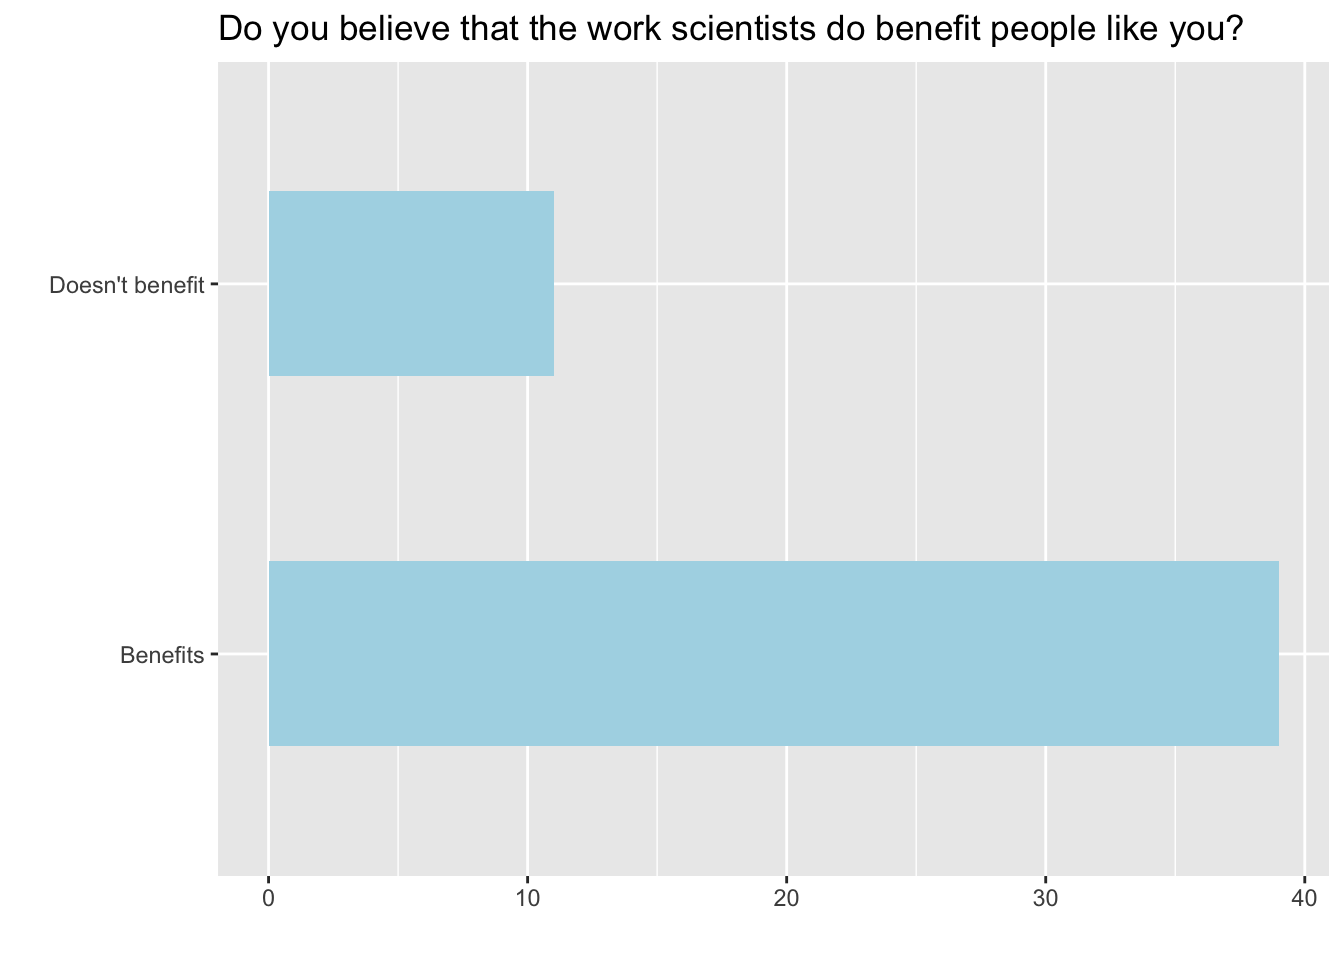
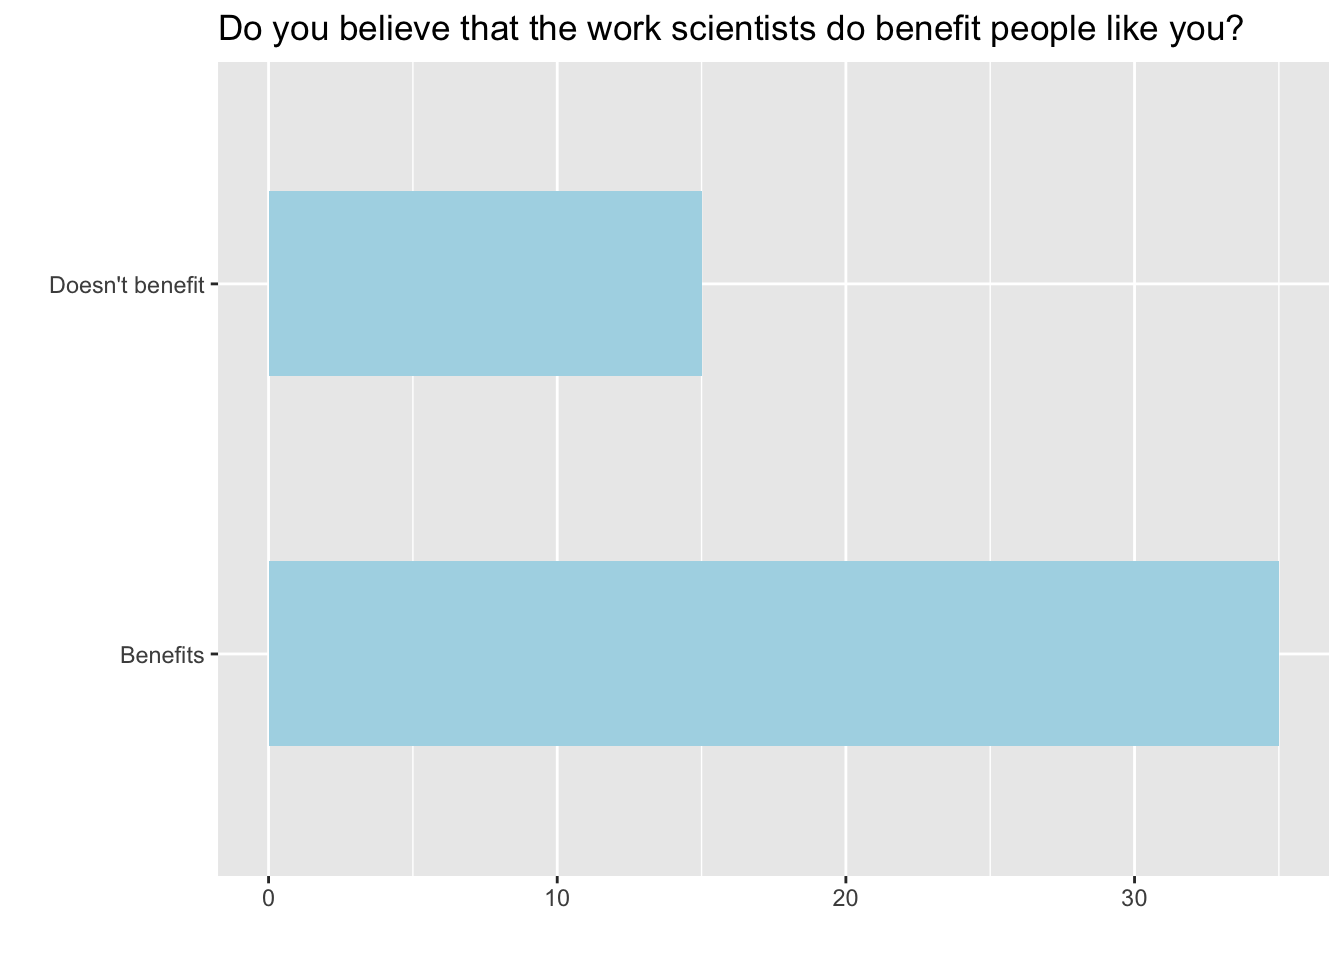
Typo update for Lab 4

diff --git a/docs/S1YLab4/part-1---sampling-distributions.html b/docs/S1YLab4/part-1---sampling-distributions.html
@@ -220,8 +220,8 @@ We will first create our population assuming a population size of 100,000 (which
 <p>The name of the data frame is <code>global_monitor</code> and the name of the variable that contains responses to the question <em>"Do you believe that the work scientists do benefit people like you?"</em> is <code>scientist_work</code>.</p>
 <p><br></p>
 <p><strong>What would this line of code return? <code>c(rep(x, 1000), rep(y, 500))</code></strong></p>
-<div id="radio_QDGKFCEMBM" class="webex-radiogroup">
-<label><input type="radio" autocomplete="off" name="radio_QDGKFCEMBM" value=""></input> <span>vector of length 500 all y</span></label><label><input type="radio" autocomplete="off" name="radio_QDGKFCEMBM" value="answer"></input> <span>vector of length 1500 with 1000 values of x and 500 values of y</span></label><label><input type="radio" autocomplete="off" name="radio_QDGKFCEMBM" value=""></input> <span>matrix with 1000 rows of x and 500 columns of y</span></label><label><input type="radio" autocomplete="off" name="radio_QDGKFCEMBM" value=""></input> <span>vector of length 1000 all x</span></label>
+<div id="radio_IHATSPZPWJ" class="webex-radiogroup">
+<label><input type="radio" autocomplete="off" name="radio_IHATSPZPWJ" value=""></input> <span>matrix with 1000 rows of x and 500 columns of y</span></label><label><input type="radio" autocomplete="off" name="radio_IHATSPZPWJ" value="answer"></input> <span>vector of length 1500 with 1000 values of x and 500 values of y</span></label><label><input type="radio" autocomplete="off" name="radio_IHATSPZPWJ" value=""></input> <span>vector of length 500 all y</span></label><label><input type="radio" autocomplete="off" name="radio_IHATSPZPWJ" value=""></input> <span>vector of length 1000 all x</span></label>
 </div>
 <div class="webex-solution">
 <button>
@@ -272,8 +272,8 @@ Solution
 <pre><code>## # A tibble: 2 × 3
 ##   scientist_work      n p_hat
 ##   &lt;chr&gt;           &lt;int&gt; &lt;dbl&gt;
-## 1 Benefits           39  0.78
-## 2 Doesn&#39;t benefit    11  0.22</code></pre>
+## 1 Benefits           35   0.7
+## 2 Doesn&#39;t benefit    15   0.3</code></pre>
 <div class="sourceCode" id="cb7"><pre class="sourceCode r"><code class="sourceCode r"><span id="cb7-1"><a href="part-1---sampling-distributions.html#cb7-1" tabindex="-1"></a><span class="fu">ggplot</span>(sample1, <span class="fu">aes</span>(<span class="at">x =</span> scientist_work)) <span class="sc">+</span> </span>
 <span id="cb7-2"><a href="part-1---sampling-distributions.html#cb7-2" tabindex="-1"></a>  <span class="fu">geom_bar</span>(<span class="at">fill =</span> <span class="st">&quot;lightblue&quot;</span>, <span class="at">width =</span> <span class="fl">0.5</span>) <span class="sc">+</span> </span>
 <span id="cb7-3"><a href="part-1---sampling-distributions.html#cb7-3" tabindex="-1"></a>  <span class="fu">labs</span>(<span class="at">x =</span> <span class="st">&quot;&quot;</span>, <span class="at">y =</span> <span class="st">&quot;&quot;</span>, <span class="at">title =</span> <span class="st">&quot;Do you believe that the work scientists do benefit people like you?&quot;</span> ) <span class="sc">+</span></span>
@@ -282,8 +282,8 @@ Solution
 </div>
 <p><br></p>
 <p><strong>Think about how the proportions in your sample compare with the distribution of the population. Would you expect the sample distribution to be?</strong></p>
-<div id="radio_MVJAKRYVWT" class="webex-radiogroup">
-<label><input type="radio" autocomplete="off" name="radio_MVJAKRYVWT" value="answer"></input> <span>Similar to the population distribution</span></label><label><input type="radio" autocomplete="off" name="radio_MVJAKRYVWT" value=""></input> <span>Very different to the population distribution</span></label>
+<div id="radio_RILGXUOUHE" class="webex-radiogroup">
+<label><input type="radio" autocomplete="off" name="radio_RILGXUOUHE" value="answer"></input> <span>Similar to the population distribution</span></label><label><input type="radio" autocomplete="off" name="radio_RILGXUOUHE" value=""></input> <span>Very different to the population distribution</span></label>
 </div>
 <div class="webex-solution">
 <button>
@@ -299,13 +299,13 @@ Hint
 <pre><code>## # A tibble: 2 × 3
 ##   scientist_work      n p_hat
 ##   &lt;chr&gt;           &lt;int&gt; &lt;dbl&gt;
-## 1 Benefits           39  0.78
-## 2 Doesn&#39;t benefit    11  0.22</code></pre>
+## 1 Benefits           35   0.7
+## 2 Doesn&#39;t benefit    15   0.3</code></pre>
 <p>Depending on the 50 people selected, your estimate could be a bit above or a bit below the population proportion of 0.2. In general, though, the sample proportion turns out to be a pretty good estimate of the true population proportion, and you were able to get it by sampling less than 1% of the population, 50 out of 100000.</p>
 <p><br></p>
 <p><strong>Would you expect the sample proportion to match the sample proportion of another student's sample?</strong></p>
-<div id="radio_GDTYPPSPNT" class="webex-radiogroup">
-<label><input type="radio" autocomplete="off" name="radio_GDTYPPSPNT" value=""></input> <span>Exactly the same</span></label><label><input type="radio" autocomplete="off" name="radio_GDTYPPSPNT" value=""></input> <span>Completely different</span></label><label><input type="radio" autocomplete="off" name="radio_GDTYPPSPNT" value="answer"></input> <span>Similar but not necessarily the same</span></label>
+<div id="radio_HMUSFOIILN" class="webex-radiogroup">
+<label><input type="radio" autocomplete="off" name="radio_HMUSFOIILN" value=""></input> <span>Completely different</span></label><label><input type="radio" autocomplete="off" name="radio_HMUSFOIILN" value=""></input> <span>Exactly the same</span></label><label><input type="radio" autocomplete="off" name="radio_HMUSFOIILN" value="answer"></input> <span>Similar but not necessarily the same</span></label>
 </div>
 <div class="webex-solution">
 <button>
@@ -337,8 +337,8 @@ Solution
 <pre><code>## # A tibble: 2 × 3
 ##   scientist_work      n p_hat
 ##   &lt;chr&gt;           &lt;int&gt; &lt;dbl&gt;
-## 1 Benefits           41  0.82
-## 2 Doesn&#39;t benefit     9  0.18</code></pre>
+## 1 Benefits           38  0.76
+## 2 Doesn&#39;t benefit    12  0.24</code></pre>
 </div>
 <p><br></p>
 <p>Create 2 more samples, of size 100 and 1000 calling them <code>sample3</code> and <code>sample4</code>, and compare the proportion of people who do not believe that the work scientists do benefits them across all four samples.</p>
@@ -361,8 +361,8 @@ Solution
 <pre><code>## # A tibble: 2 × 3
 ##   scientist_work      n p_hat
 ##   &lt;chr&gt;           &lt;int&gt; &lt;dbl&gt;
-## 1 Benefits           81  0.81
-## 2 Doesn&#39;t benefit    19  0.19</code></pre>
+## 1 Benefits           74  0.74
+## 2 Doesn&#39;t benefit    26  0.26</code></pre>
 <div class="sourceCode" id="cb14"><pre class="sourceCode r"><code class="sourceCode r"><span id="cb14-1"><a href="part-1---sampling-distributions.html#cb14-1" tabindex="-1"></a>sample4 <span class="ot">&lt;-</span> global_monitor <span class="sc">%&gt;%</span> </span>
 <span id="cb14-2"><a href="part-1---sampling-distributions.html#cb14-2" tabindex="-1"></a>  <span class="fu">sample_n</span>(<span class="dv">1000</span>)</span>
 <span id="cb14-3"><a href="part-1---sampling-distributions.html#cb14-3" tabindex="-1"></a></span>
@@ -372,13 +372,13 @@ Solution
 <pre><code>## # A tibble: 2 × 3
 ##   scientist_work      n p_hat
 ##   &lt;chr&gt;           &lt;int&gt; &lt;dbl&gt;
-## 1 Benefits          789 0.789
-## 2 Doesn&#39;t benefit   211 0.211</code></pre>
+## 1 Benefits          783 0.783
+## 2 Doesn&#39;t benefit   217 0.217</code></pre>
 </div>
 <p><br></p>
 <p><strong>Looking at the new samples, of size 100 and 1000. Which would you think would provide a more precise estimate of the population mean?</strong></p>
-<div id="radio_AQXQUBXEQH" class="webex-radiogroup">
-<label><input type="radio" autocomplete="off" name="radio_AQXQUBXEQH" value=""></input> <span>Sample size 50</span></label><label><input type="radio" autocomplete="off" name="radio_AQXQUBXEQH" value=""></input> <span>Sample size 100</span></label><label><input type="radio" autocomplete="off" name="radio_AQXQUBXEQH" value="answer"></input> <span>Sample size 1000</span></label>
+<div id="radio_MTZNGVRQER" class="webex-radiogroup">
+<label><input type="radio" autocomplete="off" name="radio_MTZNGVRQER" value=""></input> <span>Sample size 50</span></label><label><input type="radio" autocomplete="off" name="radio_MTZNGVRQER" value=""></input> <span>Sample size 100</span></label><label><input type="radio" autocomplete="off" name="radio_MTZNGVRQER" value="answer"></input> <span>Sample size 1000</span></label>
 </div>
 <div class="webex-solution">
 <button>
@@ -407,12 +407,12 @@ Hint
 <span id="cb16-9"><a href="part-1---sampling-distributions.html#cb16-9" tabindex="-1"></a>  <span class="fu">geom_histogram</span>(<span class="at">binwidth =</span> <span class="fl">0.05</span>, <span class="at">fill =</span> <span class="st">&quot;seagreen3&quot;</span>) <span class="sc">+</span></span>
 <span id="cb16-10"><a href="part-1---sampling-distributions.html#cb16-10" tabindex="-1"></a>  <span class="fu">labs</span>(<span class="at">x =</span> <span class="st">&quot;p_hat (Doesn&#39;t benefit)&quot;</span>,</span>
 <span id="cb16-11"><a href="part-1---sampling-distributions.html#cb16-11" tabindex="-1"></a>       <span class="at">title =</span> <span class="st">&quot;Sampling distribution of p_hat&quot;</span>,</span>
-<span id="cb16-12"><a href="part-1---sampling-distributions.html#cb16-12" tabindex="-1"></a>       <span class="at">subtitle =</span> <span class="st">&quot;Sample size = 50, Number of samples = 150&quot;</span>)</span></code></pre></div>
+<span id="cb16-12"><a href="part-1---sampling-distributions.html#cb16-12" tabindex="-1"></a>       <span class="at">subtitle =</span> <span class="st">&quot;Sample size = 50, Number of samples = 15000&quot;</span>)</span></code></pre></div>
 <p>If you would like to adjust the bin width of your histogram to show a little more detail, you can do so by changing the <code>binwidth</code> argument in <code>geom_histogram</code>.</p>
 <p><br></p>
 <p><strong>How many elements are there in <code>sample_props50</code>?</strong></p>
-<div id="radio_ATHGSKHRTO" class="webex-radiogroup">
-<label><input type="radio" autocomplete="off" name="radio_ATHGSKHRTO" value=""></input> <span>50</span></label><label><input type="radio" autocomplete="off" name="radio_ATHGSKHRTO" value=""></input> <span>100</span></label><label><input type="radio" autocomplete="off" name="radio_ATHGSKHRTO" value=""></input> <span>1500</span></label><label><input type="radio" autocomplete="off" name="radio_ATHGSKHRTO" value=""></input> <span>1000</span></label><label><input type="radio" autocomplete="off" name="radio_ATHGSKHRTO" value="answer"></input> <span>15000</span></label>
+<div id="radio_EKPLHZDCQO" class="webex-radiogroup">
+<label><input type="radio" autocomplete="off" name="radio_EKPLHZDCQO" value=""></input> <span>50</span></label><label><input type="radio" autocomplete="off" name="radio_EKPLHZDCQO" value=""></input> <span>100</span></label><label><input type="radio" autocomplete="off" name="radio_EKPLHZDCQO" value=""></input> <span>1500</span></label><label><input type="radio" autocomplete="off" name="radio_EKPLHZDCQO" value=""></input> <span>1000</span></label><label><input type="radio" autocomplete="off" name="radio_EKPLHZDCQO" value="answer"></input> <span>15000</span></label>
 </div>
 <div class="webex-solution">
 <button>
@@ -422,8 +422,8 @@ Hint
 </div>
 <p><br></p>
 <p><strong>What distribution does the shape of the histogram most resemble?</strong></p>
-<div id="radio_KYLXRDAFVZ" class="webex-radiogroup">
-<label><input type="radio" autocomplete="off" name="radio_KYLXRDAFVZ" value="answer"></input> <span>Normal</span></label><label><input type="radio" autocomplete="off" name="radio_KYLXRDAFVZ" value=""></input> <span>Poisson</span></label><label><input type="radio" autocomplete="off" name="radio_KYLXRDAFVZ" value=""></input> <span>Binomial</span></label><label><input type="radio" autocomplete="off" name="radio_KYLXRDAFVZ" value=""></input> <span>Geometric</span></label>
+<div id="radio_FZNQCRCPAB" class="webex-radiogroup">
+<label><input type="radio" autocomplete="off" name="radio_FZNQCRCPAB" value=""></input> <span>Poisson</span></label><label><input type="radio" autocomplete="off" name="radio_FZNQCRCPAB" value=""></input> <span>Geometric</span></label><label><input type="radio" autocomplete="off" name="radio_FZNQCRCPAB" value=""></input> <span>Binomial</span></label><label><input type="radio" autocomplete="off" name="radio_FZNQCRCPAB" value="answer"></input> <span>Normal</span></label>
 </div>
 <div class="webex-solution">
 <button>
@@ -449,8 +449,8 @@ Hint
 <span id="cb17-11"><a href="part-1---sampling-distributions.html#cb17-11" tabindex="-1"></a>       <span class="at">subtitle =</span> <span class="st">&quot;Sample size = 50&quot;</span>)</span></code></pre></div>
 <p><br></p>
 <p><strong>Would you expect the distribution to significantly change if 50,000 samples were collected?</strong></p>
-<div id="radio_MSCXKAEIPB" class="webex-radiogroup">
-<label><input type="radio" autocomplete="off" name="radio_MSCXKAEIPB" value=""></input> <span>Yes</span></label><label><input type="radio" autocomplete="off" name="radio_MSCXKAEIPB" value="answer"></input> <span>No</span></label>
+<div id="radio_VBEDEAABMJ" class="webex-radiogroup">
+<label><input type="radio" autocomplete="off" name="radio_VBEDEAABMJ" value=""></input> <span>Yes</span></label><label><input type="radio" autocomplete="off" name="radio_VBEDEAABMJ" value="answer"></input> <span>No</span></label>
 </div>
 <div class="webex-solution">
 <button>
@@ -527,8 +527,8 @@ Solution
 </div>
 <p><br></p>
 <p><strong>When the sample size is larger, what happens to the center?</strong></p>
-<div id="radio_GAOXIWCTPY" class="webex-radiogroup">
-<label><input type="radio" autocomplete="off" name="radio_GAOXIWCTPY" value=""></input> <span>Increases</span></label><label><input type="radio" autocomplete="off" name="radio_GAOXIWCTPY" value=""></input> <span>Decreases</span></label><label><input type="radio" autocomplete="off" name="radio_GAOXIWCTPY" value="answer"></input> <span>Stays constant</span></label>
+<div id="radio_RKXJKPXUMU" class="webex-radiogroup">
+<label><input type="radio" autocomplete="off" name="radio_RKXJKPXUMU" value=""></input> <span>Increases</span></label><label><input type="radio" autocomplete="off" name="radio_RKXJKPXUMU" value=""></input> <span>Decreases</span></label><label><input type="radio" autocomplete="off" name="radio_RKXJKPXUMU" value="answer"></input> <span>Stays constant</span></label>
 </div>
 <div class="webex-solution">
 <button>
@@ -538,8 +538,8 @@ Hint
 </div>
 <p><br></p>
 <p><strong>When the sample size is larger, what happens to the spread?</strong></p>
-<div id="radio_RAVEAVKLXR" class="webex-radiogroup">
-<label><input type="radio" autocomplete="off" name="radio_RAVEAVKLXR" value=""></input> <span>Increases</span></label><label><input type="radio" autocomplete="off" name="radio_RAVEAVKLXR" value="answer"></input> <span>Decreases</span></label><label><input type="radio" autocomplete="off" name="radio_RAVEAVKLXR" value=""></input> <span>Stays constant</span></label>
+<div id="radio_OVOKWNQMAW" class="webex-radiogroup">
+<label><input type="radio" autocomplete="off" name="radio_OVOKWNQMAW" value=""></input> <span>Increases</span></label><label><input type="radio" autocomplete="off" name="radio_OVOKWNQMAW" value="answer"></input> <span>Decreases</span></label><label><input type="radio" autocomplete="off" name="radio_OVOKWNQMAW" value=""></input> <span>Stays constant</span></label>
 </div>
 <div class="webex-solution">
 <button>

diff --git a/docs/S1YLab4/part-2---confidence-intervals.html b/docs/S1YLab4/part-2---confidence-intervals.html
@@ -271,13 +271,13 @@ Solution
 <pre><code>## # A tibble: 2 × 3
 ##   climate_change_affects     n p_hat
 ##   &lt;chr&gt;                  &lt;int&gt; &lt;dbl&gt;
-## 1 No                        17 0.283
-## 2 Yes                       43 0.717</code></pre>
+## 1 No                        27  0.45
+## 2 Yes                       33  0.55</code></pre>
 </div>
 <p><br></p>
 <strong>What would you expect another student's proportion to be?</strong>
-<div id="radio_WDPILXLQBM" class="webex-radiogroup">
-<label><input type="radio" autocomplete="off" name="radio_WDPILXLQBM" value=""></input> <span>Very different</span></label><label><input type="radio" autocomplete="off" name="radio_WDPILXLQBM" value=""></input> <span>Identical</span></label><label><input type="radio" autocomplete="off" name="radio_WDPILXLQBM" value="answer"></input> <span>Slightly similar</span></label>
+<div id="radio_NSPTMBMQSA" class="webex-radiogroup">
+<label><input type="radio" autocomplete="off" name="radio_NSPTMBMQSA" value=""></input> <span>Very different</span></label><label><input type="radio" autocomplete="off" name="radio_NSPTMBMQSA" value="answer"></input> <span>Slightly similar</span></label><label><input type="radio" autocomplete="off" name="radio_NSPTMBMQSA" value=""></input> <span>Identical</span></label>
 </div>
 <div class="webex-solution">
 <button>
@@ -302,14 +302,14 @@ Hint
 <p>However, some conditions need to be made for the confidence interval to be valid.</p>
 <p><br></p>
 <strong>What conditions must be met for this confidence to be valid?</strong>
-<div id="radio_KHCQNBHGHJ" class="webex-radiogroup">
-<label><input type="radio" autocomplete="off" name="radio_KHCQNBHGHJ" value=""></input> <span>Data comes from a binomial distribution</span></label><label><input type="radio" autocomplete="off" name="radio_KHCQNBHGHJ" value=""></input> <span>The distribution is skewed but it is allowed with a small sample size</span></label><label><input type="radio" autocomplete="off" name="radio_KHCQNBHGHJ" value="answer"></input> <span>Independence assumption is valid</span></label>
+<div id="radio_NQSJLAADUF" class="webex-radiogroup">
+<label><input type="radio" autocomplete="off" name="radio_NQSJLAADUF" value="answer"></input> <span>Independence assumption is valid</span></label><label><input type="radio" autocomplete="off" name="radio_NQSJLAADUF" value=""></input> <span>Data comes from a binomial distribution</span></label><label><input type="radio" autocomplete="off" name="radio_NQSJLAADUF" value=""></input> <span>The distribution is skewed but it is allowed with a small sample size</span></label>
 </div>
-<div id="radio_BGRSNVCROJ" class="webex-radiogroup">
-<label><input type="radio" autocomplete="off" name="radio_BGRSNVCROJ" value="answer"></input> <span>Data comes from a normal distribution</span></label>
+<div id="radio_XAGCJUVMOW" class="webex-radiogroup">
+<label><input type="radio" autocomplete="off" name="radio_XAGCJUVMOW" value="answer"></input> <span>Data comes from a normal distribution</span></label>
 </div>
-<div id="radio_WZUYNJOUOC" class="webex-radiogroup">
-<label><input type="radio" autocomplete="off" name="radio_WZUYNJOUOC" value="answer"></input> <span>The disribution is skewed but it is allowed with a large sample size</span></label>
+<div id="radio_UBONTNQTIQ" class="webex-radiogroup">
+<label><input type="radio" autocomplete="off" name="radio_UBONTNQTIQ" value="answer"></input> <span>The disribution is skewed but it is allowed with a large sample size</span></label>
 </div>
 <div class="webex-solution">
 <button>
@@ -340,8 +340,8 @@ Hint
 <span id="cb28-14"><a href="part-2---confidence-intervals.html#cb28-14" tabindex="-1"></a>ci</span></code></pre></div>
 <p><br></p>
 <strong>If you were to repeat this simulation again and again, would each confidence interval capture the true population proportion of US adults who think climate change affects their local community?</strong>
-<div id="radio_QCODNZWCQF" class="webex-radiogroup">
-<label><input type="radio" autocomplete="off" name="radio_QCODNZWCQF" value="answer"></input> <span>Each would with 95% confidence</span></label><label><input type="radio" autocomplete="off" name="radio_QCODNZWCQF" value=""></input> <span>Yes, each certainly would</span></label><label><input type="radio" autocomplete="off" name="radio_QCODNZWCQF" value=""></input> <span>No, each certainly wouldn't</span></label>
+<div id="radio_SYWOWKGFTL" class="webex-radiogroup">
+<label><input type="radio" autocomplete="off" name="radio_SYWOWKGFTL" value="answer"></input> <span>Each would with 95% confidence</span></label><label><input type="radio" autocomplete="off" name="radio_SYWOWKGFTL" value=""></input> <span>Yes, each certainly would</span></label><label><input type="radio" autocomplete="off" name="radio_SYWOWKGFTL" value=""></input> <span>No, each certainly wouldn't</span></label>
 </div>
 <div class="webex-solution">
 <button>
@@ -353,8 +353,8 @@ Hint
 <p>If we were to collect all the confidence intervals produced in the console above by all the students in S1Y, each student should have produced a slightly different confidence interval because they were each based on different random samples.</p>
 <p><br></p>
 <strong>What proportion of those intervals would you expect to capture the true population mean?</strong>
-<div id="radio_HGGQIHDXIF" class="webex-radiogroup">
-<label><input type="radio" autocomplete="off" name="radio_HGGQIHDXIF" value="answer"></input> <span>95%</span></label><label><input type="radio" autocomplete="off" name="radio_HGGQIHDXIF" value=""></input> <span>2.5%</span></label><label><input type="radio" autocomplete="off" name="radio_HGGQIHDXIF" value=""></input> <span>5%</span></label>
+<div id="radio_IVEDUFFQRT" class="webex-radiogroup">
+<label><input type="radio" autocomplete="off" name="radio_IVEDUFFQRT" value=""></input> <span>2.5%</span></label><label><input type="radio" autocomplete="off" name="radio_IVEDUFFQRT" value=""></input> <span>5%</span></label><label><input type="radio" autocomplete="off" name="radio_IVEDUFFQRT" value="answer"></input> <span>95%</span></label>
 </div>
 <div class="webex-solution">
 <button>
@@ -402,8 +402,8 @@ Hint
 <span id="cb29-26"><a href="part-2---confidence-intervals.html#cb29-26" tabindex="-1"></a><span class="fu">c</span>(<span class="st">&quot;99% CI&quot;</span>, <span class="fu">paste</span>(<span class="fu">round</span>(ci,<span class="dv">3</span>)))</span></code></pre></div>
 <p><br></p>
 <strong>Which interval would you expect to be wider?</strong>
-<div id="radio_ALAAPZMMHX" class="webex-radiogroup">
-<label><input type="radio" autocomplete="off" name="radio_ALAAPZMMHX" value="answer"></input> <span>Interval with a larger confidence level</span></label><label><input type="radio" autocomplete="off" name="radio_ALAAPZMMHX" value=""></input> <span>Interval with a larger sample size</span></label>
+<div id="radio_VBXKVGNWKC" class="webex-radiogroup">
+<label><input type="radio" autocomplete="off" name="radio_VBXKVGNWKC" value=""></input> <span>Interval with a larger sample size</span></label><label><input type="radio" autocomplete="off" name="radio_VBXKVGNWKC" value="answer"></input> <span>Interval with a larger confidence level</span></label>
 </div>
 <div class="webex-solution">
 <button>
